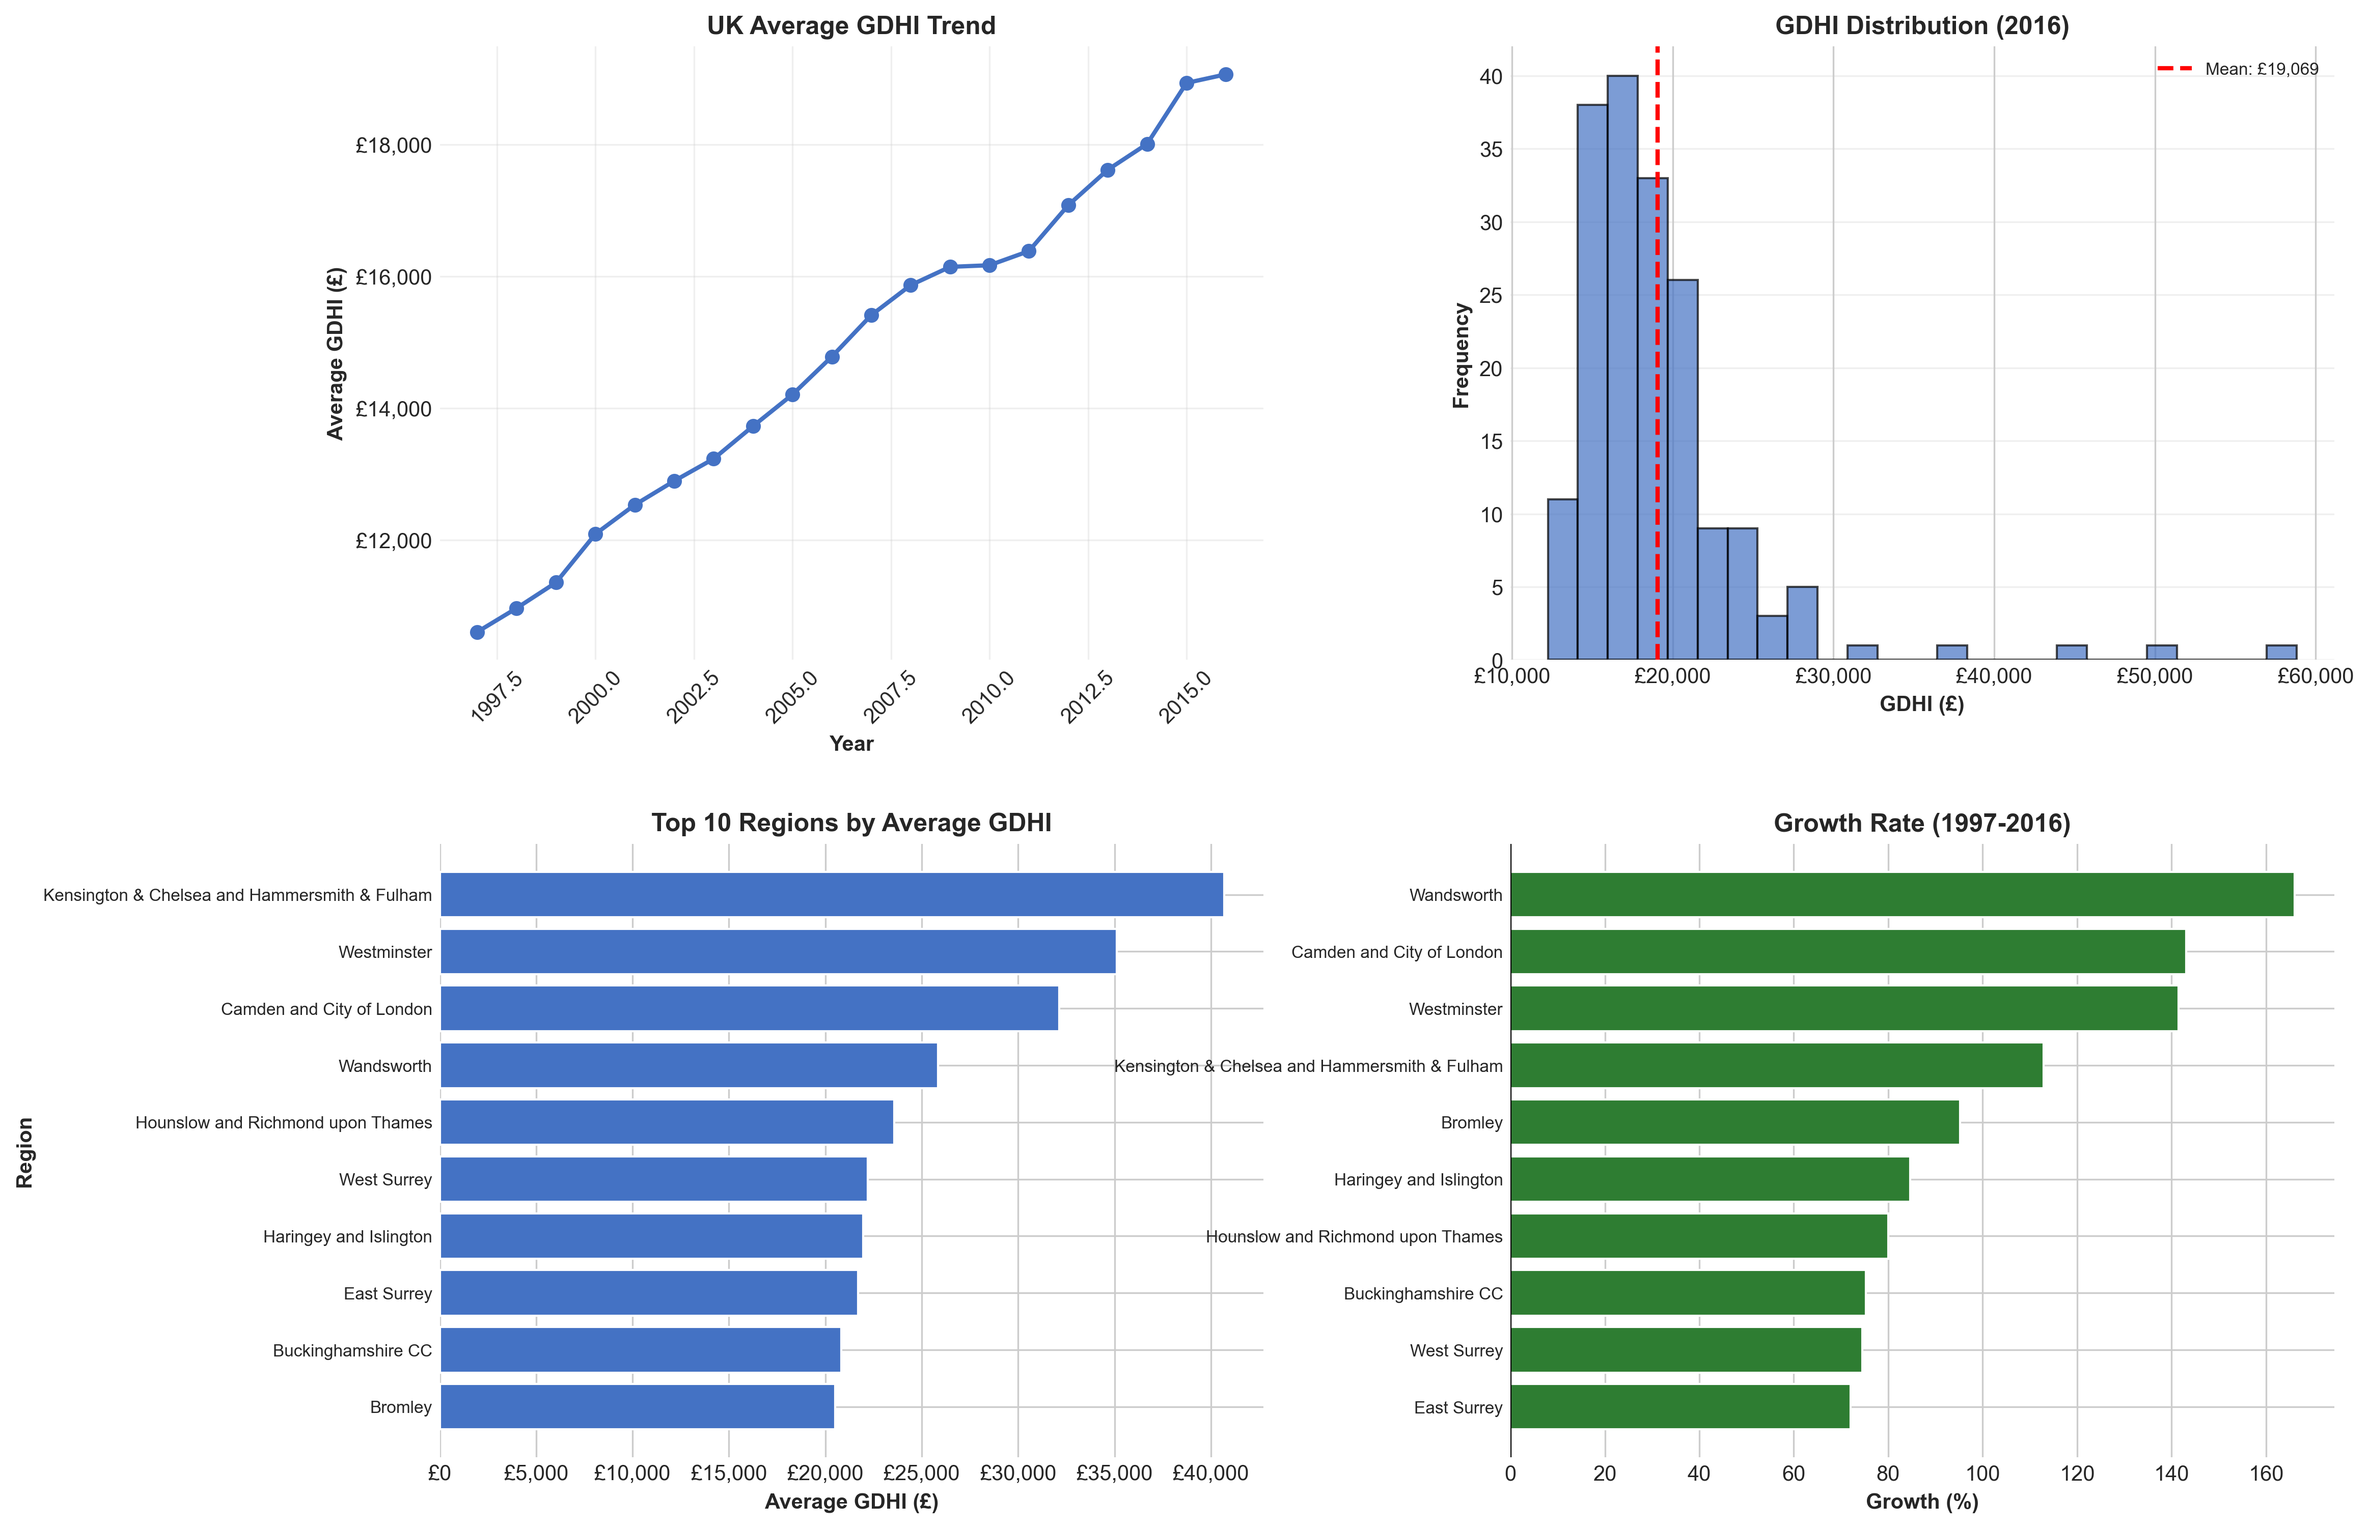
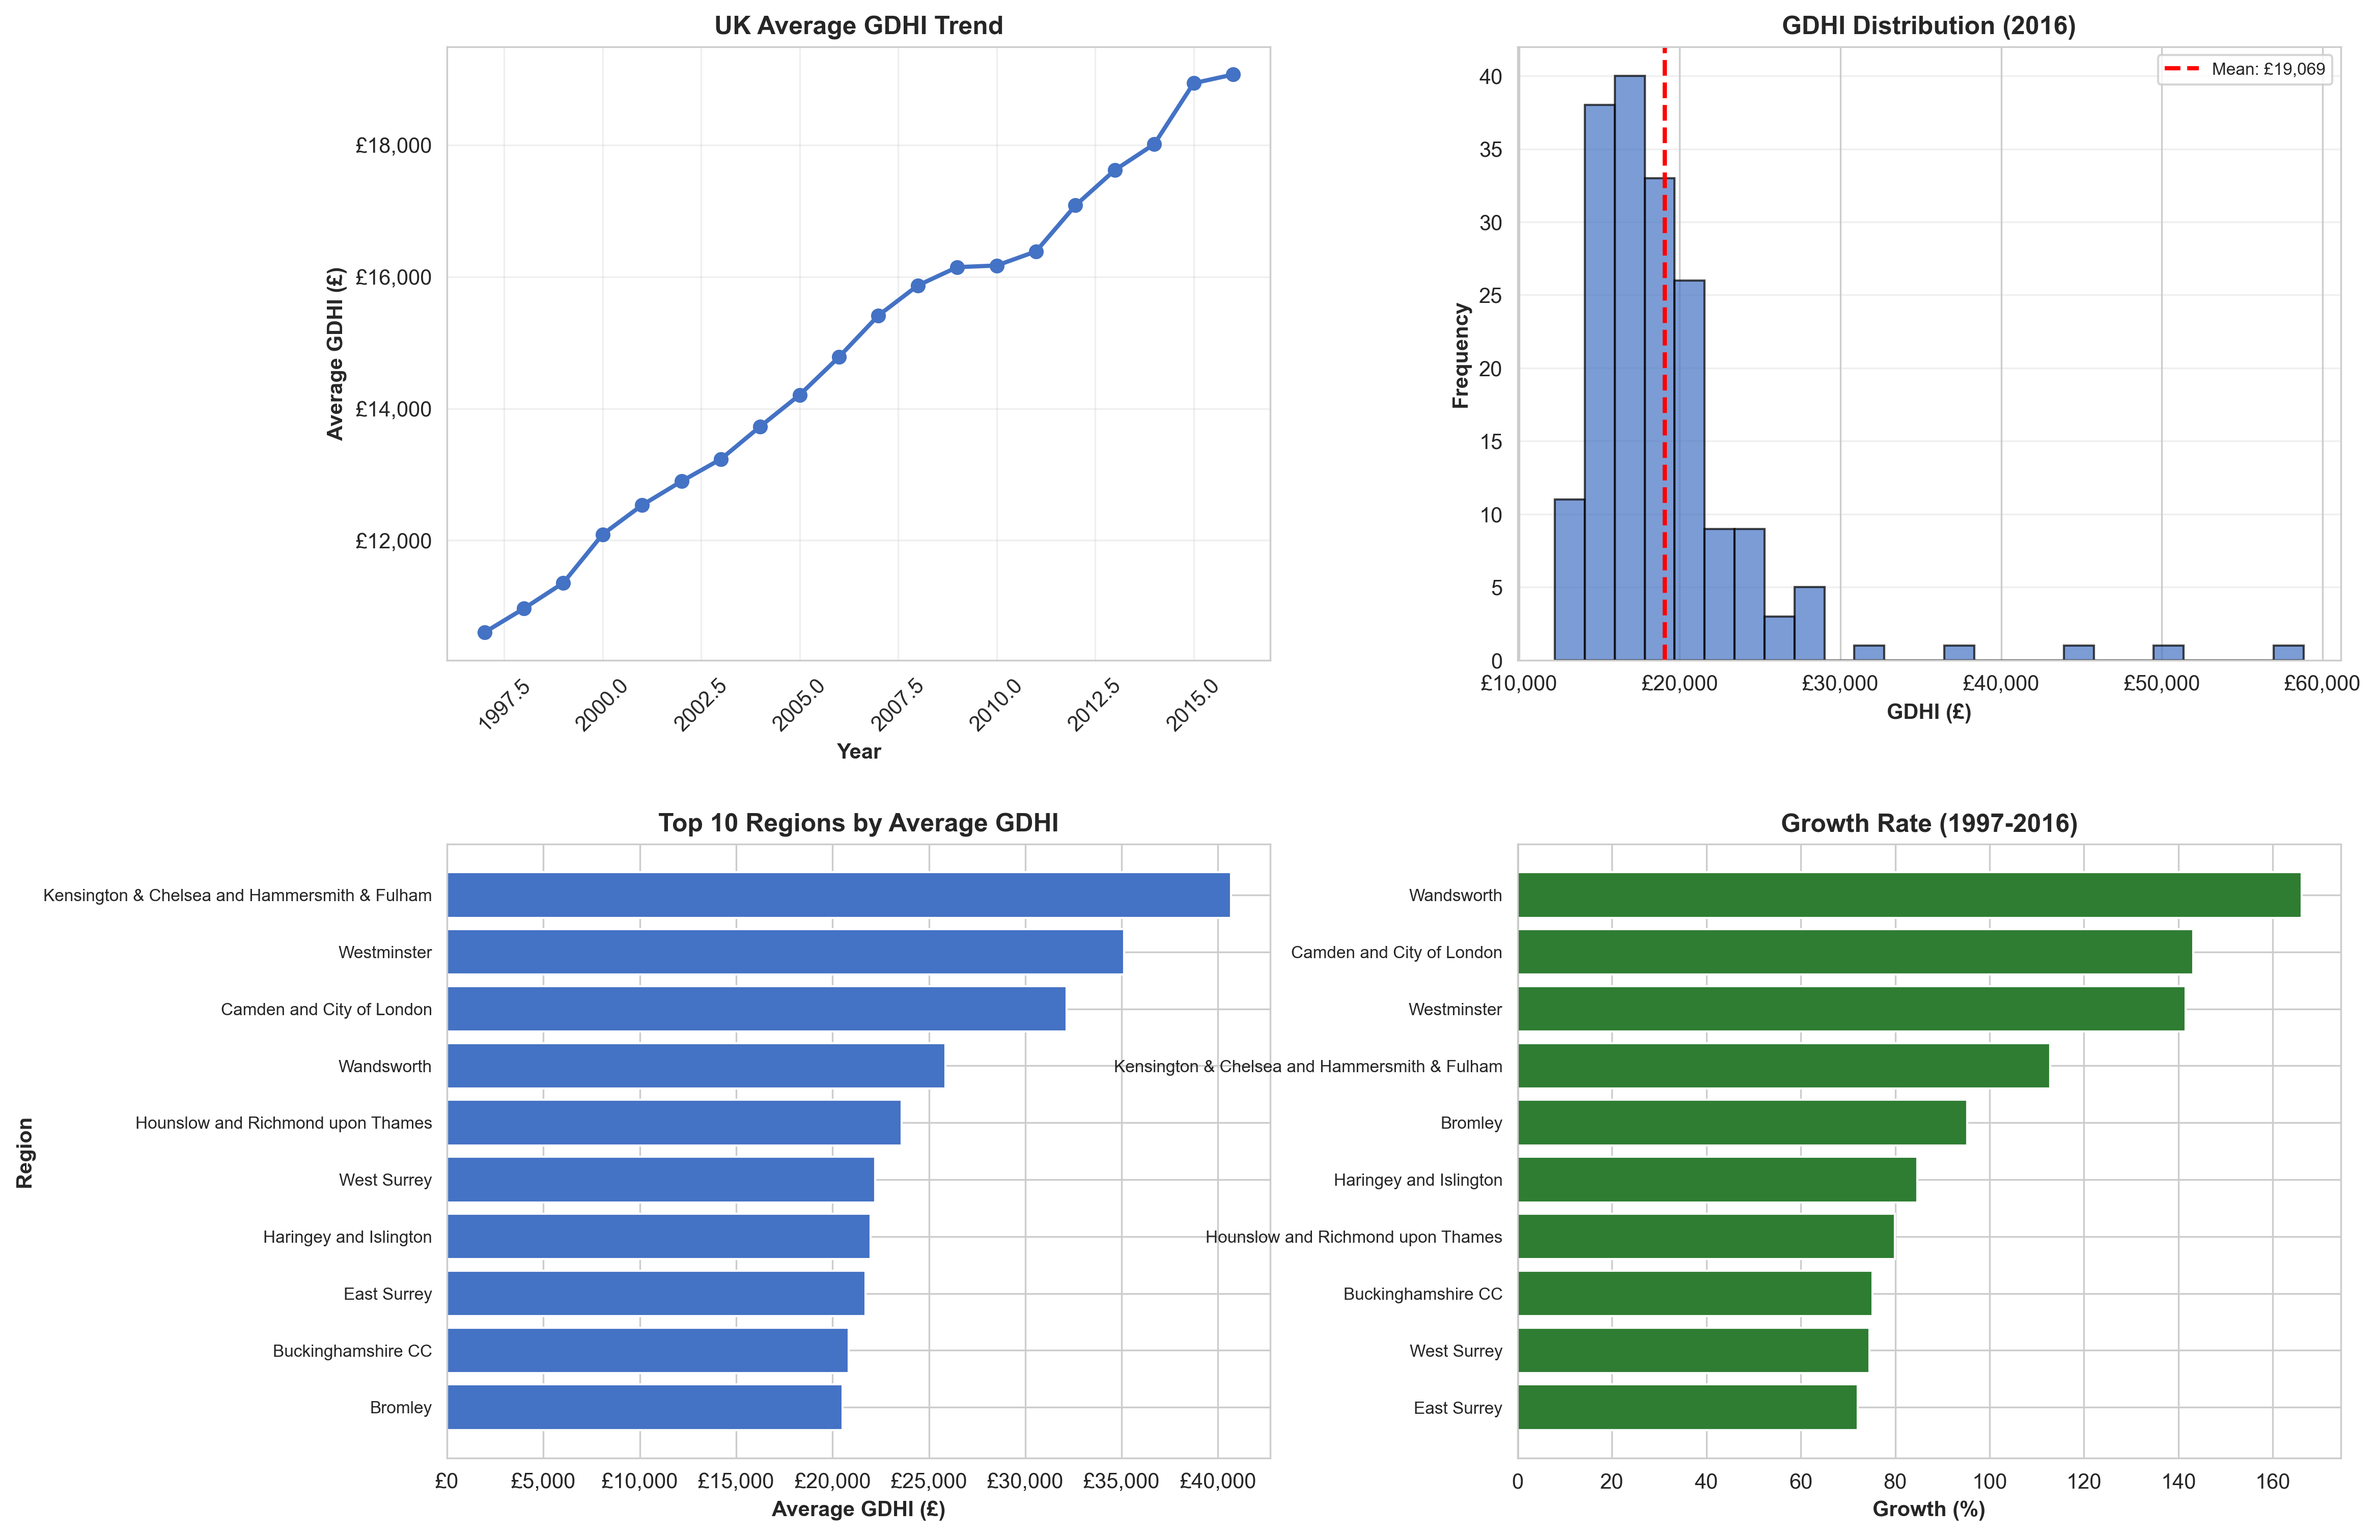
Add profile branding and clean up chart visualizations
- Added profile picture to sidebar with creator attribution
- Removed chart titles from all weeks for cleaner presentation
- Updated output images with new clean chart style
- Removed old logo.txt file

diff --git a/weeks/week7.py b/weeks/week7.py
@@ -124,7 +124,6 @@ def _compute_statistics(df: pd.DataFrame, verbose: bool) -> StatsContext:
 def _figure_univariate(df: pd.DataFrame, stats_ctx: StatsContext) -> Figure:
     year_2016: pd.Series = stats_ctx["year_2016"]
     fig, axes = plt.subplots(2, 2, figsize=(15, 10))
-    fig.suptitle("Univariate Analysis: GDHI Distribution in 2016", fontsize=16, fontweight="bold")
 
     axes[0, 0].hist(year_2016, bins=30, color="skyblue", edgecolor="black", alpha=0.7)
     axes[0, 0].axvline(year_2016.mean(), color="red", linestyle="--", linewidth=2, label=f"Mean: GBP {year_2016.mean():.0f}")
@@ -216,7 +215,6 @@ def _figure_correlation(df: pd.DataFrame) -> Tuple[Figure, Dict[str, float]]:
 
 def _figure_scatter(df: pd.DataFrame) -> Tuple[Figure, Dict[str, float]]:
     fig, axes = plt.subplots(1, 3, figsize=(18, 5))
-    fig.suptitle("Multivariate Analysis: Scatter Plots", fontsize=16, fontweight="bold")
 
     plots = [
         ("1997", "2016", "1997 vs 2016"),
@@ -291,7 +289,6 @@ def _simple_linear_regression(df: pd.DataFrame) -> Tuple[LinearRegression, np.nd
 def _residual_figure(y_true: np.ndarray, y_pred: np.ndarray) -> Tuple[np.ndarray, Figure]:
     residuals = y_true - y_pred
     fig, axes = plt.subplots(1, 2, figsize=(15, 5))
-    fig.suptitle("Residual Analysis", fontsize=16, fontweight="bold")
 
     axes[0].scatter(y_pred, residuals, alpha=0.6, s=50, color="purple", edgecolors="black", linewidth=0.5)
     axes[0].axhline(y=0, color="red", linestyle="--", linewidth=2)

diff --git a/qt_app.py b/qt_app.py
@@ -130,6 +130,25 @@ class Sidebar(QtWidgets.QWidget):
 
         outer = QtWidgets.QVBoxLayout(self)
 
+        # Profile picture/logo
+        logo_path = PROJECT_ROOT / "assets" / "profile.png"
+        if logo_path.exists():
+            logo_label = QtWidgets.QLabel()
+            pixmap = QtGui.QPixmap(str(logo_path))
+            # Scale to 120x120 pixels maintaining aspect ratio with smooth transformation
+            scaled_pixmap = pixmap.scaled(120, 120, QtCore.Qt.AspectRatioMode.KeepAspectRatio,
+                                         QtCore.Qt.TransformationMode.SmoothTransformation)
+            logo_label.setPixmap(scaled_pixmap)
+            logo_label.setAlignment(ALIGN_CENTER)
+            logo_label.setStyleSheet("padding: 15px;")
+            outer.addWidget(logo_label)
+
+            # Creator name under profile picture
+            creator_label = QtWidgets.QLabel("Created by George C Angheluta")
+            creator_label.setAlignment(ALIGN_CENTER)
+            creator_label.setStyleSheet("color: #888888; font-size: 10px; padding-bottom: 10px;")
+            outer.addWidget(creator_label)
+
         # Title with styling
         title = QtWidgets.QLabel("📊 Weekly Learning")
         font = title.font()

diff --git a/weeks/week6.py b/weeks/week6.py
@@ -150,7 +150,6 @@ def multivariate_analysis(df: pd.DataFrame, features: list[str], verbose: bool =
 
     scatter_matrix(df[features], figsize=(12, 12), diagonal="kde", alpha=0.7)
     fig_sm = plt.gcf()
-    fig_sm.suptitle("Multivariate Scatter Matrix", fontsize=14, fontweight="bold", y=1.02)
     fig_sm.tight_layout()
     fig_sm.savefig(OUTPUT_DIR / "week6_scatter_matrix.png", dpi=300, bbox_inches="tight")
     figs.append(fig_sm)

diff --git a/weeks/week9.py b/weeks/week9.py
@@ -333,8 +333,6 @@ def create_summary_dashboard(df: pd.DataFrame, verbose: bool = True) -> Figure:
     ax6.legend(fontsize=9)
     ax6.grid(axis='y', alpha=0.3)
 
-    plt.suptitle('GDHI Performance Summary Dashboard', fontsize=16, fontweight='bold', y=0.995)
-
     if verbose:
         fig.savefig(OUTPUT_DIR / "week9_summary_dashboard.png", dpi=300, bbox_inches='tight')
         print("[OK] Saved: week9_summary_dashboard.png")

diff --git a/weeks/week2.py b/weeks/week2.py
@@ -223,7 +223,6 @@ def statistical_summary(stats_ctx: StatsContext, verbose: bool = True) -> None:
 
 def create_dashboard_figure(df: pd.DataFrame) -> Figure:
     fig, axes = plt.subplots(2, 2, figsize=(14, 10))
-    fig.suptitle("Week 2: Descriptive Statistics - GDHI Analysis 2016", fontsize=16, fontweight="bold")
 
     gdhi_2016 = df["2016"]
     mean_2016 = float(np.mean(gdhi_2016))
